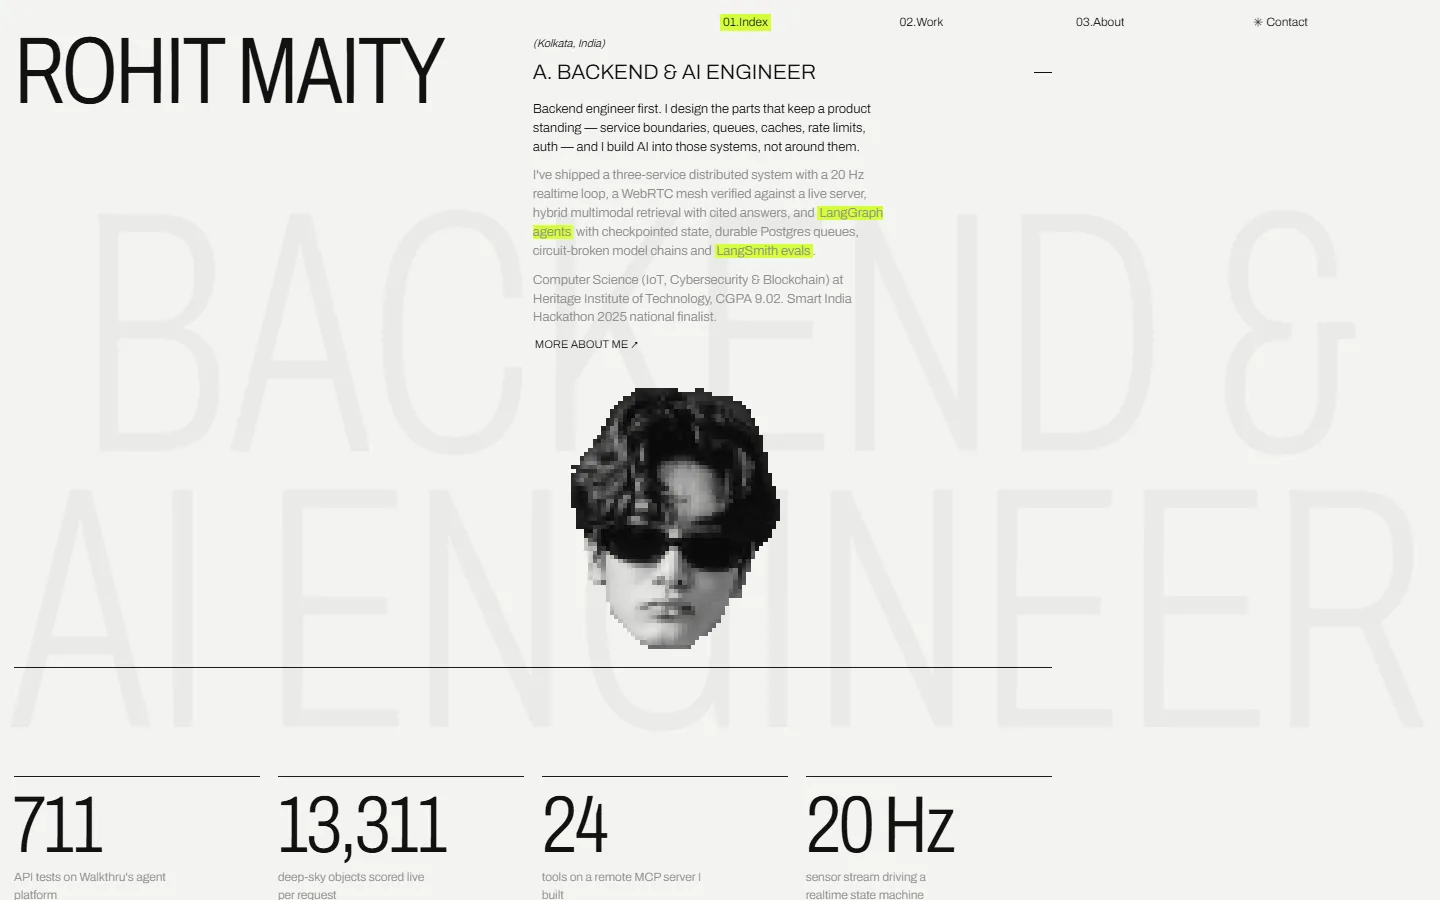
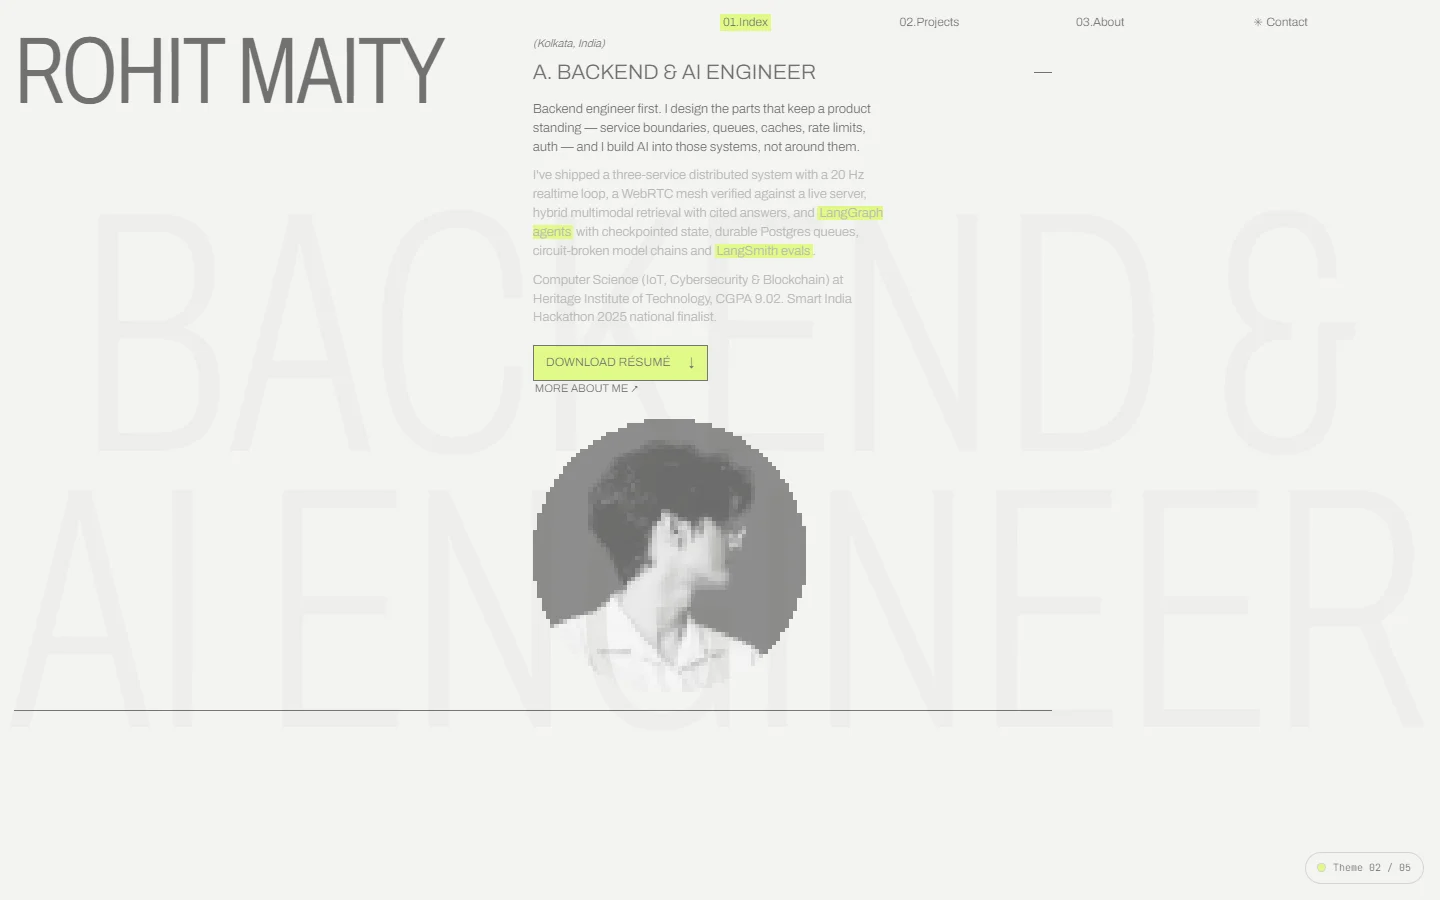
docs: refresh README and screenshots
New 1440x900 captures of the dice, all five themes, the Projects catalog
and a case page. Adds live and repo links, the writing list, social
links, and how case clips, sponsor links and live npm counts work.

diff --git a/README.md b/README.md
@@ -4,6 +4,8 @@ A quiet, text-led portfolio. It's where I present my work to myself and to anyon
 
 I'm a backend & AI engineer (Python, FastAPI, Node.js, LangGraph). The site is deliberately minimal so the work does the talking: light type, greys plus one accent colour, a few images, and subtle motion.
 
+**Live:** [portfolio2-mu-inky.vercel.app](https://portfolio2-mu-inky.vercel.app) · **Repo:** [watermelon588/portfolio-job](https://github.com/watermelon588/portfolio-job)
+
 ![The dice preloader landing on a theme](docs/screens/dice.webp)
 
 ## Five themes, one portfolio
@@ -16,20 +18,26 @@ The same content is presented in five different designs. On each visit a die rol
 | **01 · Paper**: Swiss, lowercase, hairlines | **02 · Ledger**: condensed type, project ledger |
 | ![Signal](docs/screens/signal.webp) | ![Blueprint](docs/screens/blueprint.webp) |
 | **03 · Signal**: dark, centred, one orange accent | **04 · Blueprint**: an all-blue CV layout |
-| ![Dial](docs/screens/dial.webp) | ![A case study page](docs/screens/case.webp) |
-| **05 · Dial**: serif and editorial | **Case pages**: the engineering behind each project |
+| ![Dial](docs/screens/dial.webp) | ![The Projects catalog](docs/screens/projects.webp) |
+| **05 · Dial**: serif and editorial | **Projects**: the filterable catalog, in every theme |
+
+![The Agent Peeps case study in Signal](docs/screens/case.webp)
+
+**Case pages** carry the engineering behind each project: architecture, the hard problems, numbers backed by the repository, screenshots and demo clips.
+
+Screenshots taken 19 November 2026 at 1440 × 900.
 
 ## What's inside
 
 - **Featured work:** Walkthru, TripVerse, SkyGuide AI, Neuron and Claimwise appear on each homepage, with a link to the complete collection.
-- **Projects:** a dedicated, filterable catalog in all five themes. It includes the featured projects, plus Agent Peeps, Yap Chat, Scribb, KOE, Shiori and Forcaster. Categories cover AI, ML & search, Full-stack and Backend. Every project has an engineering case study, repository links and live links where available.
-- **Writing:** my articles on Hashnode.
+- **Projects:** a dedicated, filterable catalog of all 11 projects in all five themes. It includes the featured projects, plus Agent Peeps, Yap Chat, Scribb, KOE, Shiori and Forcaster. Categories cover AI, ML & search, Full-stack and Backend. Every project has an engineering case study, repository links and live links where available.
+- **Writing:** my articles on [Hashnode](https://zaxx-blog.hashnode.dev): [How I built the harness around a claim-policy AI agent in 3 days](https://zaxx-blog.hashnode.dev/how-i-built-the-harness-around-a-claim-policy-ai-agent-in-3-days-from-scratch) (the Claimwise agent) and the three-part *Why does JavaScript feel so absurd?* series.
 - **About:** who I am, how I work, and what I'm currently going deep on.
 - **Contact:** email, socials, résumé and a message form.
 
 ## Built with
 
-Vite · vanilla JavaScript · GSAP · Lenis. The portfolio pages are static, with a Vercel Function for the optional traffic counter.
+Vite · vanilla JavaScript · GSAP · Lenis · vite-imagetools. The portfolio pages are static, with one Vercel Function (`api/traffic.js`) for the optional traffic counter.
 
 ## Editing
 
@@ -39,7 +47,7 @@ Everything is driven from three places, so changing the site rarely means touchi
 |---|---|
 | Any text: hero, projects, about, writing, contact | `src/config/content.js` |
 | Colours, fonts, portrait and its filter per theme | `src/config/theme.js` |
-| Images and the résumé | `site-assets/` (folders are picked up automatically, in filename order) |
+| Images, demo clips and the résumé | `site-assets/` (folders are picked up automatically, in filename order) |
 
 All five themes use the same profile photo from `site-assets/portraits/profile.png`. Replace that file to update the portrait everywhere; each theme keeps its own portrait size and visual treatment from `src/config/theme.js`.
 
@@ -49,7 +57,15 @@ Open Graph and X card metadata are emitted into every page's HTML by `vite.confi
 
 Projects live at `/<theme>/projects.html`; case studies remain at `/<theme>/work.html?p=<slug>`. Catalog filters use `?category=ai`, `ml`, `development` or `backend`, survive refresh/back navigation and follow theme switching. Case pages include a category filter and project chooser.
 
-To add a project, create a record in `content.work` with a unique `slug`, `sections`, `categories` and links, then add a shared thumbnail in `site-assets/thumbnails/<slug>.webp` and case images under each `site-assets/variants/<theme>/<slug>/`. Categories may overlap. New entries automatically join the catalog, filter counts, case chooser and next-project chain. The homepage selects the first five records in the array; reorder that array to change featured work.
+To add a project, create a record in `content.work` with a unique `slug`, `sections`, `categories` and links, then add a shared thumbnail in `site-assets/thumbnails/<slug>.webp` and case media under each `site-assets/variants/<theme>/<slug>/`. Categories may overlap. New entries automatically join the catalog, filter counts, case chooser and next-project chain. The homepage selects the first five records in the array; reorder that array to change featured work. Source notes for the newer case studies are in `docs/projects/`.
+
+Project options:
+
+- **Case media:** the first file in a project folder is the cover. WebP is served as-is, PNG/JPG are converted to WebP at build time, and `.mp4` files render as muted, looping clips with controls that play only while on screen.
+- **Links:** `links.live` and `links.github` become the case-page buttons. `links.sponsor` adds a small *Sponsor* link beside them and in the catalog row.
+- **Live npm count:** a metric value of `<span data-npm="<package>" data-since="YYYY-MM-DD">fallback</span>` is replaced with the package's total npm downloads, fetched in the browser from npm's downloads API. The fallback stays if npm doesn't answer. Agent Peeps uses this.
+
+Writing entries take `title`, `date`, `read`, `topic` and `url`. Signal, Ledger and Dial show short labels: series posts set `part` (*Absurd JS — Part 2*), other posts set `short`.
 
 ## Run it
 
@@ -69,4 +85,4 @@ To enable the counter, [connect Upstash Redis to the Vercel project](https://ups
 
 ---
 
-© 2026 Rohit Maity · [GitHub](https://github.com/watermelon588) · [LinkedIn](https://www.linkedin.com/in/maity-rohit) · maityrohit021@gmail.com
+© 2026 Rohit Maity · [GitHub](https://github.com/watermelon588) · [LinkedIn](https://www.linkedin.com/in/maity-rohit) · [X](https://x.com/turquoise_0904) · [Hashnode](https://hashnode.com/@zaxx) · maityrohit021@gmail.com
